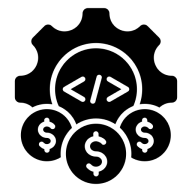
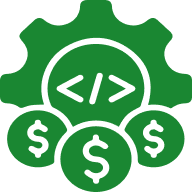
APP GESTAO DE GASTOS - PWA

diff --git a/public/js/app.js b/public/js/app.js
@@ -1,126 +1,141 @@
-        document.addEventListener('DOMContentLoaded', function () {
-            const inputs = document.querySelectorAll('#descricao, #quantidade, #valor, #moeda-origem, #moeda-destino');
-            const output = document.getElementById('output');
+document.addEventListener('DOMContentLoaded', function () {
+    const inputs = document.querySelectorAll('#descricao, #quantidade, #valor, #moeda-origem, #moeda-destino');
+    const output = document.getElementById('output');
 
-            inputs.forEach(input => {
-                input.addEventListener('input', updateOutput);
-            });
+    inputs.forEach(input => {
+        input.addEventListener('input', updateOutput);
+    });
 
-            fetchMoedas();
+    fetchMoedas();
 
-            async function updateOutput() {
-                const descricao = document.getElementById('descricao').value;
-                const quantidade = document.getElementById('quantidade').value;
-                const valor = document.getElementById('valor').value;
-                const moedaOrigem = document.getElementById('moeda-origem').value;
-                const moedaDestino = document.getElementById('moeda-destino').value;
+    async function updateOutput() {
+        const descricao = document.getElementById('descricao').value;
+        const quantidade = document.getElementById('quantidade').value;
+        const valor = document.getElementById('valor').value;
+        const moedaOrigem = document.getElementById('moeda-origem').value;
+        const moedaDestino = document.getElementById('moeda-destino').value;
 
-                let valorConvertido = '';
+        let valorConvertido = '';
 
-                if (valor && moedaOrigem && moedaDestino) {
-                    valorConvertido = await converterMoeda(valor, moedaOrigem, moedaDestino);
-                }
+        if (valor && moedaOrigem && moedaDestino) {
+            valorConvertido = await converterMoeda(valor, moedaOrigem, moedaDestino);
+        }
 
-                output.innerHTML = `
-                    <p><strong>Descrição:</strong> ${descricao}</p>
-                    <p><strong>Quantidade:</strong> ${quantidade}</p>
-                    <p><strong>Valor:</strong> ${valor}</p>
-                    <p><strong>Moeda de Origem:</strong> ${moedaOrigem}</p>
-                    <p><strong>Moeda de Destino:</strong> ${moedaDestino}</p>
-                    <p><strong>Valor Convertido:</strong> ${valorConvertido}</p>
-                `;
-            }
+        output.innerHTML = `
+            <p><strong>Descrição:</strong> ${descricao}</p>
+            <p><strong>Quantidade:</strong> ${quantidade}</p>
+            <p><strong>Valor:</strong> ${formatarMoeda(valor, moedaOrigem)}</p>
+            <p><strong>Moeda de Origem:</strong> ${moedaOrigem}</p>
+            <p><strong>Moeda de Destino:</strong> ${moedaDestino}</p>
+            <p><strong>Valor Convertido:</strong> ${formatarMoeda(valorConvertido, moedaDestino)}</p>
+        `;
+    }
+});
+
+async function fetchMoedas() {
+    try {
+        const response = await fetch('https://api.exchangerate-api.com/v4/latest/USD');
+        const data = await response.json();
+        const moedas = Object.keys(data.rates);
+        const moedaOrigemSelect = document.getElementById('moeda-origem');
+        const moedaDestinoSelect = document.getElementById('moeda-destino');
+
+        moedas.forEach(moeda => {
+            const option1 = document.createElement('option');
+            option1.value = moeda;
+            option1.text = moeda;
+            moedaOrigemSelect.add(option1);
+
+            const option2 = document.createElement('option');
+            option2.value = moeda;
+            option2.text = moeda;
+            moedaDestinoSelect.add(option2);
         });
+    } catch (error) {
+        console.error('Erro ao buscar moedas:', error);
+    }
+}
 
-        async function fetchMoedas() {
-            try {
-                const response = await fetch('https://api.exchangerate-api.com/v4/latest/USD');
-                const data = await response.json();
-                const moedas = Object.keys(data.rates);
-                const moedaOrigemSelect = document.getElementById('moeda-origem');
-                const moedaDestinoSelect = document.getElementById('moeda-destino');
+async function adicionarDespesa() {
+    const descricao = document.getElementById('descricao').value.trim();
+    const quantidade = document.getElementById('quantidade').value.trim();
+    const valor = document.getElementById('valor').value.trim();
+    const moedaOrigem = document.getElementById('moeda-origem').value.trim();
+    const moedaDestino = document.getElementById('moeda-destino').value.trim();
 
-                moedas.forEach(moeda => {
-                    const option1 = document.createElement('option');
-                    option1.value = moeda;
-                    option1.text = moeda;
-                    moedaOrigemSelect.add(option1);
+    // Validação dos campos
+    if (!descricao || !quantidade || !valor || !moedaOrigem || !moedaDestino) {
+        // Exibir modal do Bootstrap
+        const validationModal = new bootstrap.Modal(document.getElementById('validationModal'));
+        validationModal.show();
+        return;
+    }
 
-                    const option2 = document.createElement('option');
-                    option2.value = moeda;
-                    option2.text = moeda;
-                    moedaDestinoSelect.add(option2);
-                });
-            } catch (error) {
-                console.error('Erro ao buscar moedas:', error);
-            }
-        }
+    // Chamada à API para conversão de moeda
+    const valorConvertido = await converterMoeda(valor, moedaOrigem, moedaDestino);
 
-        async function adicionarDespesa() {
-            const descricao = document.getElementById('descricao').value;
-            const quantidade = document.getElementById('quantidade').value;
-            const valor = document.getElementById('valor').value;
-            const moedaOrigem = document.getElementById('moeda-origem').value;
-            const moedaDestino = document.getElementById('moeda-destino').value;
+    const expenseTable = document.getElementById('expense-table');
+    const row = document.createElement('tr');
 
-            // Chamada à API para conversão de moeda
-            const valorConvertido = await converterMoeda(valor, moedaOrigem, moedaDestino);
+    row.innerHTML = `
+        <td>${descricao}</td>
+        <td>${quantidade}</td>
+        <td>${formatarMoeda(valor, moedaOrigem)}</td>
+        <td>${moedaOrigem}</td>
+        <td>${moedaDestino}</td>
+        <td>${formatarMoeda(valorConvertido, moedaDestino)}</td>
+        <td>
+            <button class="btn btn-warning btn-sm" onclick="editarDespesa(this)">Editar</button>
+            <button class="btn btn-danger btn-sm" onclick="deletarDespesa(this)">Deletar</button>
+        </td>
+    `;
 
-            const expenseTable = document.getElementById('expense-table');
-            const row = document.createElement('tr');
+    expenseTable.appendChild(row);
 
-            row.innerHTML = `
-                <td>${descricao}</td>
-                <td>${quantidade}</td>
-                <td>${valor}</td>
-                <td>${moedaOrigem}</td>
-                <td>${moedaDestino}</td>
-                <td>${valorConvertido}</td>
-                <td>
-                    <button class="btn btn-warning btn-sm" onclick="editarDespesa(this)">Editar</button>
-                    <button class="btn btn-danger btn-sm" onclick="deletarDespesa(this)">Deletar</button>
-                </td>
-            `;
+    // Limpar campos de entrada
+    document.getElementById('descricao').value = '';
+    document.getElementById('quantidade').value = '';
+    document.getElementById('valor').value = '';
+    document.getElementById('moeda-origem').value = '';
+    document.getElementById('moeda-destino').value = '';
 
-            expenseTable.appendChild(row);
+    // Atualizar a exibição do resumo
+    document.getElementById('output').innerHTML = '<p>Os valores digitados aparecerão aqui.</p>';
+}
 
-            // Limpar campos de entrada
-            document.getElementById('descricao').value = '';
-            document.getElementById('quantidade').value = '';
-            document.getElementById('valor').value = '';
-            document.getElementById('moeda-origem').value = '';
-            document.getElementById('moeda-destino').value = '';
+async function converterMoeda(valor, moedaOrigem, moedaDestino) {
+    try {
+        const response = await fetch(`https://api.exchangerate-api.com/v4/latest/${moedaOrigem}`);
+        const data = await response.json();
+        const taxaConversao = data.rates[moedaDestino];
+        return (valor * taxaConversao).toFixed(2);
+    } catch (error) {
+        console.error('Erro ao converter moeda:', error);
+        return 'Erro';
+    }
+}
 
-            // Atualizar a exibição do resumo
-            document.getElementById('output').innerHTML = '<p>Os valores digitados aparecerão aqui.</p>';
-        }
+function formatarMoeda(valor, moeda) {
+    return new Intl.NumberFormat('pt-BR', {
+        style: 'currency',
+        currency: moeda
+    }).format(valor);
+}
 
-        async function converterMoeda(valor, moedaOrigem, moedaDestino) {
-            try {
-                const response = await fetch(`https://api.exchangerate-api.com/v4/latest/${moedaOrigem}`);
-                const data = await response.json();
-                const taxaConversao = data.rates[moedaDestino];
-                return (valor * taxaConversao).toFixed(2);
-            } catch (error) {
-                console.error('Erro ao converter moeda:', error);
-                return 'Erro';
-            }
-        }
+function editarDespesa(button) {
+    const row = button.closest('tr');
+    const cells = row.querySelectorAll('td');
 
-        function editarDespesa(button) {
-            const row = button.closest('tr');
-            const cells = row.querySelectorAll('td');
+    document.getElementById('descricao').value = cells[0].innerText;
+    document.getElementById('quantidade').value = cells[1].innerText;
+    document.getElementById('valor').value = cells[2].innerText.replace(/[^\d,.-]/g, ''); // Remover símbolo da moeda
+    document.getElementById('moeda-origem').value = cells[3].innerText;
+    document.getElementById('moeda-destino').value = cells[4].innerText;
 
-            document.getElementById('descricao').value = cells[0].innerText;
-            document.getElementById('quantidade').value = cells[1].innerText;
-            document.getElementById('valor').value = cells[2].innerText;
-            document.getElementById('moeda-origem').value = cells[3].innerText;
-            document.getElementById('moeda-destino').value = cells[4].innerText;
+    row.remove();
+}
 
-            row.remove();
-        }
-
-        function deletarDespesa(button) {
-            const row = button.closest('tr');
-            row.remove();
-        }
+function deletarDespesa(button) {
+    const row = button.closest('tr');
+    row.remove();
+}

diff --git a/public/index.html b/public/index.html
@@ -5,7 +5,7 @@
     <meta charset="UTF-8">
     <meta name="viewport" content="width=device-width, initial-scale=1.0">
     <link rel="manifest" href="manifest.json">
-    <link rel="stylesheet" href="styles.css">
+    <link rel="stylesheet" href="css/style.css">
     <link rel="stylesheet" href="https://stackpath.bootstrapcdn.com/bootstrap/4.5.2/css/bootstrap.min.css">
     <title>Gestão de Despesas</title>
 
@@ -13,7 +13,13 @@
 
 <body>
     <div class="container mt-5">
-        <h1 class="text-center">Gestão de Despesas</h1>
+        <div class="row justify-content-center">
+            <div class="col-md-6 text-center">
+                <img class="mb-3" src="image/icon192x192.svg" alt="Ícone" id="icon">
+                <h1 class="text-center">Gestão de Despesas</h1>
+            </div>
+        </div>
+
         <hr>
         <div class="row">
             <div class="form-group col-md-6">
@@ -22,7 +28,7 @@
                 <input id="valor" class="form-control mb-4" type="number" placeholder="Valor">
                 <select id="moeda-origem" class="form-control mb-4"></select>
                 <select id="moeda-destino" class="form-control mb-4"></select>
-                <button type="button" class="btn btn-primary" onclick="adicionarDespesa()">Adicionar</button>
+                <button type="button" class="btn btn-success" onclick="adicionarDespesa()">Adicionar</button>
             </div>
             <div class="col-md-6">
                 <div class="full-box p-3">
@@ -53,6 +59,26 @@
                 <!-- Tabela de despesas -->
             </tbody>
         </table>
+
+      <!-- Modal -->
+      <div class="modal fade" id="validationModal" tabindex="-1" aria-labelledby="validationModalLabel" aria-hidden="true">
+        <div class="modal-dialog">
+            <div class="modal-content">
+                <div class="modal-header">
+                    <img src="image/icon192x192.svg" alt="Ícone" id="modal-icon" class="me-auto">
+                    <h5 class="modal-title" id="validationModalLabel">Validação de Campos</h5>
+                    <!-- <button type="button" class="btn-close" data-bs-dismiss="modal" aria-label="Close">X</button> -->
+                </div>
+                <div class="modal-body text-center">
+                    Todos os campos são obrigatórios.
+                </div>
+                <!-- <div class="modal-footer">
+                    <button type="button" class="btn btn-secondary" data-bs-dismiss="modal">Fechar</button>
+                </div> -->
+            </div>
+        </div>
+    </div>
+
     </div>
 
     <script src="https://code.jquery.com/jquery-3.5.1.slim.min.js"></script>

diff --git a/public/css/style.css b/public/css/style.css
@@ -15,3 +15,26 @@
     justify-content: space-between;
     align-items: center;
 }
+#icon, #modal-icon {
+    fill: #28a745; /* Cor verde do btn-success */
+    width: 100px;
+    height: 100px;
+}
+
+#preview-box {
+    position: relative;
+    background: url('image/icon512x512.svg') no-repeat;
+    background-size: 150px 150px;
+    background-position: left bottom;
+    opacity: 0.9;
+    overflow: hidden;
+    padding: 1rem;
+    border: 1px solid #ddd;
+    border-radius: 5px;
+}
+
+#output {
+    background: rgba(255, 255, 255, 0.8);
+    padding: 1rem;
+    border-radius: 5px;
+}
